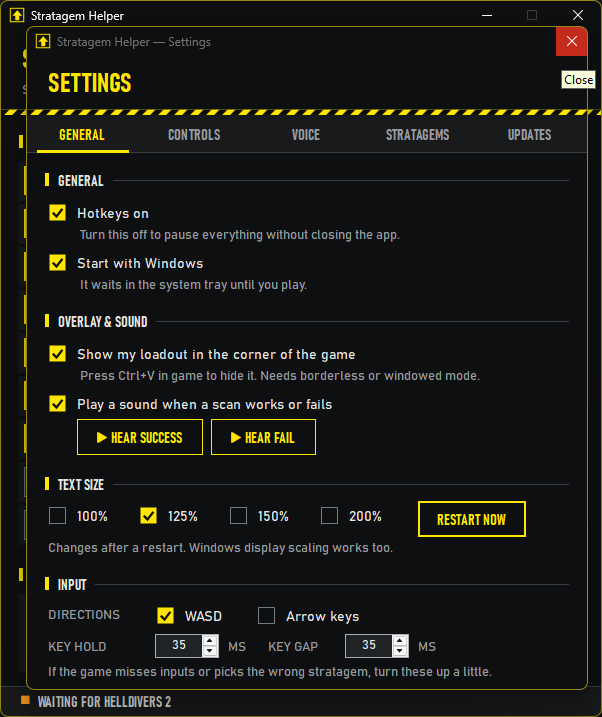
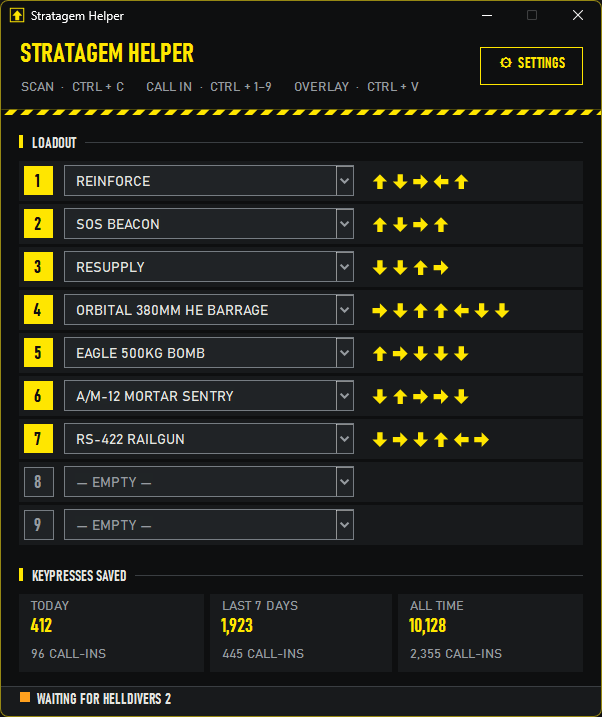
README: show the main window in the first screenshot
The previous image had the Settings window open on top of it. Adds a
--shot-main mode to the test tool to capture the main window on its own.

diff --git a/tools/OcrTest/Program.cs b/tools/OcrTest/Program.cs
@@ -30,6 +30,28 @@ if (args.Length == 4 && args[0] == "--form")
     Application.Run(f);
     return 0;
 }
+if (args.Length == 2 && args[0] == "--shot-main")
+{
+    // README image of the main window. Uses settings.json / stats.json next to this exe: --shot-main <out.png>
+    Theme.Init(1f, false);
+    var f = new MainForm { StartPosition = FormStartPosition.CenterScreen, TopMost = true };
+    f.Shown += async (_, _) =>
+    {
+        f.ActiveControl = null;
+        await Task.Delay(1500);
+        Dwm.GetWindowAttribute(f.Handle, 9, out var r, 16);
+        var b = Rectangle.FromLTRB(r.Left, r.Top, r.Right, r.Bottom);
+        using var bmp = new Bitmap(b.Width, b.Height);
+        using (var g = Graphics.FromImage(bmp)) g.CopyFromScreen(b.Location, Point.Empty, b.Size);
+        bmp.Save(args[1]);
+        Console.WriteLine($"Saved {args[1]} ({b.Width}x{b.Height})");
+        var tray = typeof(MainForm).GetField("_tray", System.Reflection.BindingFlags.NonPublic | System.Reflection.BindingFlags.Instance)?.GetValue(f) as NotifyIcon;
+        if (tray != null) tray.Visible = false;
+        Environment.Exit(0);
+    };
+    Application.Run(f);
+    return 0;
+}
 if (args.Contains("--firstrun")) { using var d = new FirstRunDialog(Theme.MakeIcon()); Console.WriteLine("Result: " + d.ShowDialog()); return 0; }
 if (args.Length == 4 && args[0] == "--render-overlay")
 {

diff --git a/tools/OcrTest/ProgramStub.cs b/tools/OcrTest/ProgramStub.cs
@@ -1,0 +1,15 @@
+namespace StratagemHelper;
+
+// MainForm calls Program.Restart; the test tool never restarts.
+internal static class Program
+{
+    public static void Restart(bool startHidden) { }
+}
+
+internal static class Dwm
+{
+    public struct RECT { public int Left, Top, Right, Bottom; }
+
+    [System.Runtime.InteropServices.DllImport("dwmapi.dll", EntryPoint = "DwmGetWindowAttribute")]
+    public static extern int GetWindowAttribute(IntPtr hwnd, int attr, out RECT value, int size);
+}
